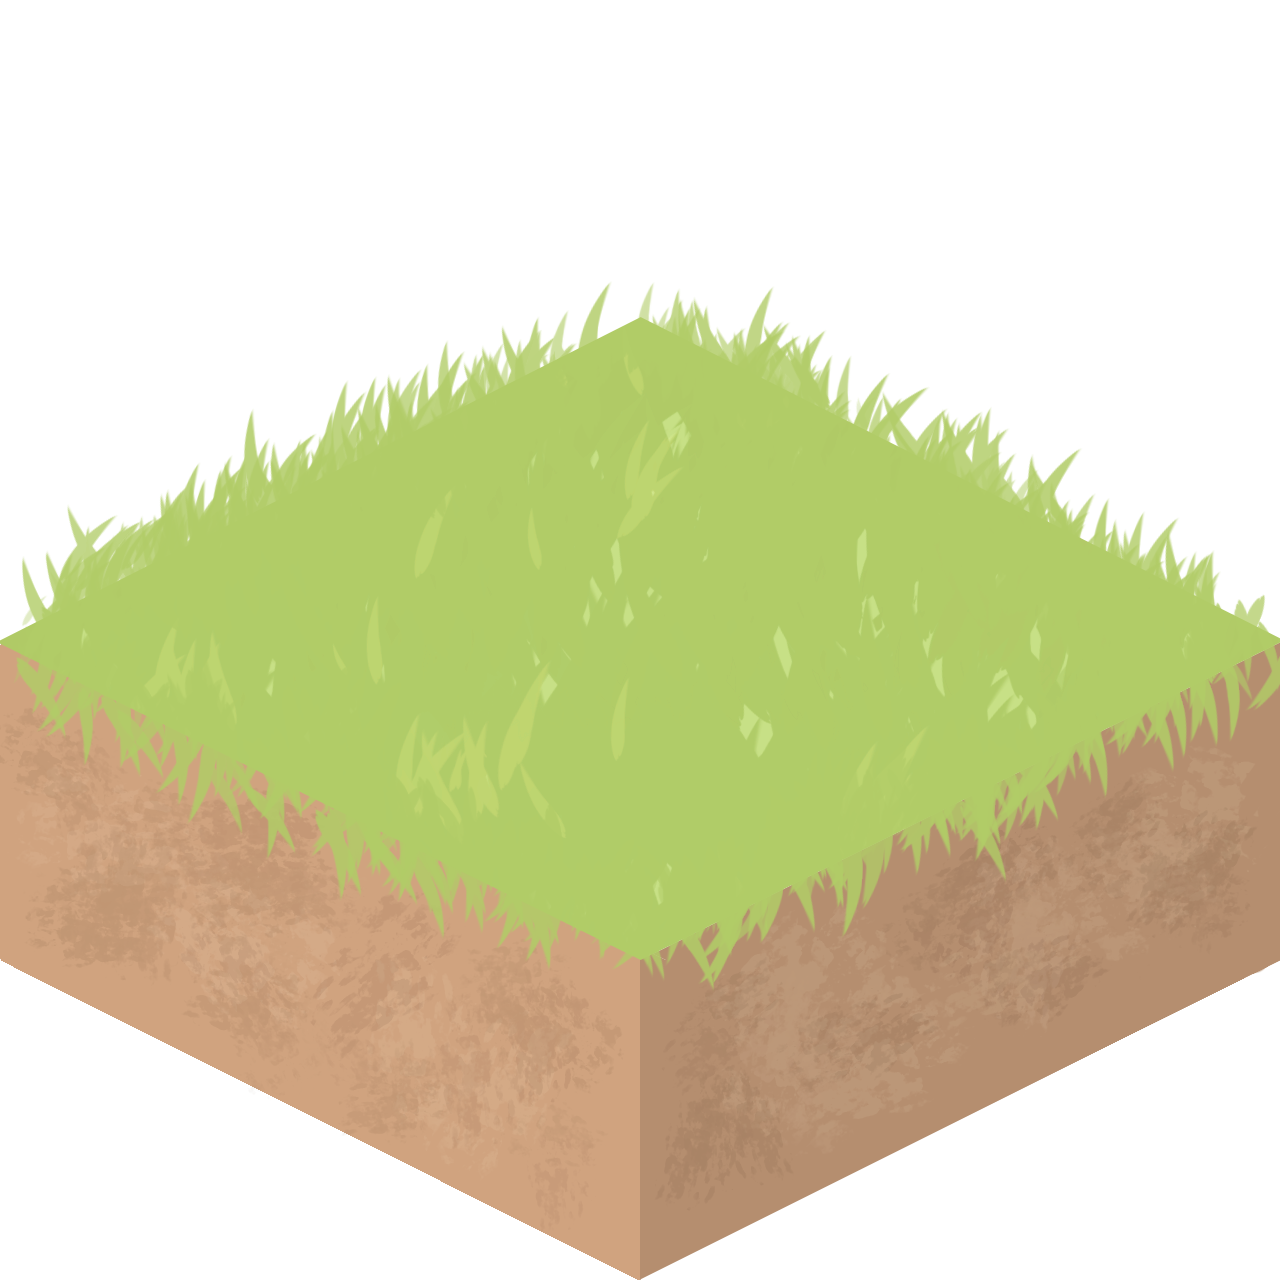
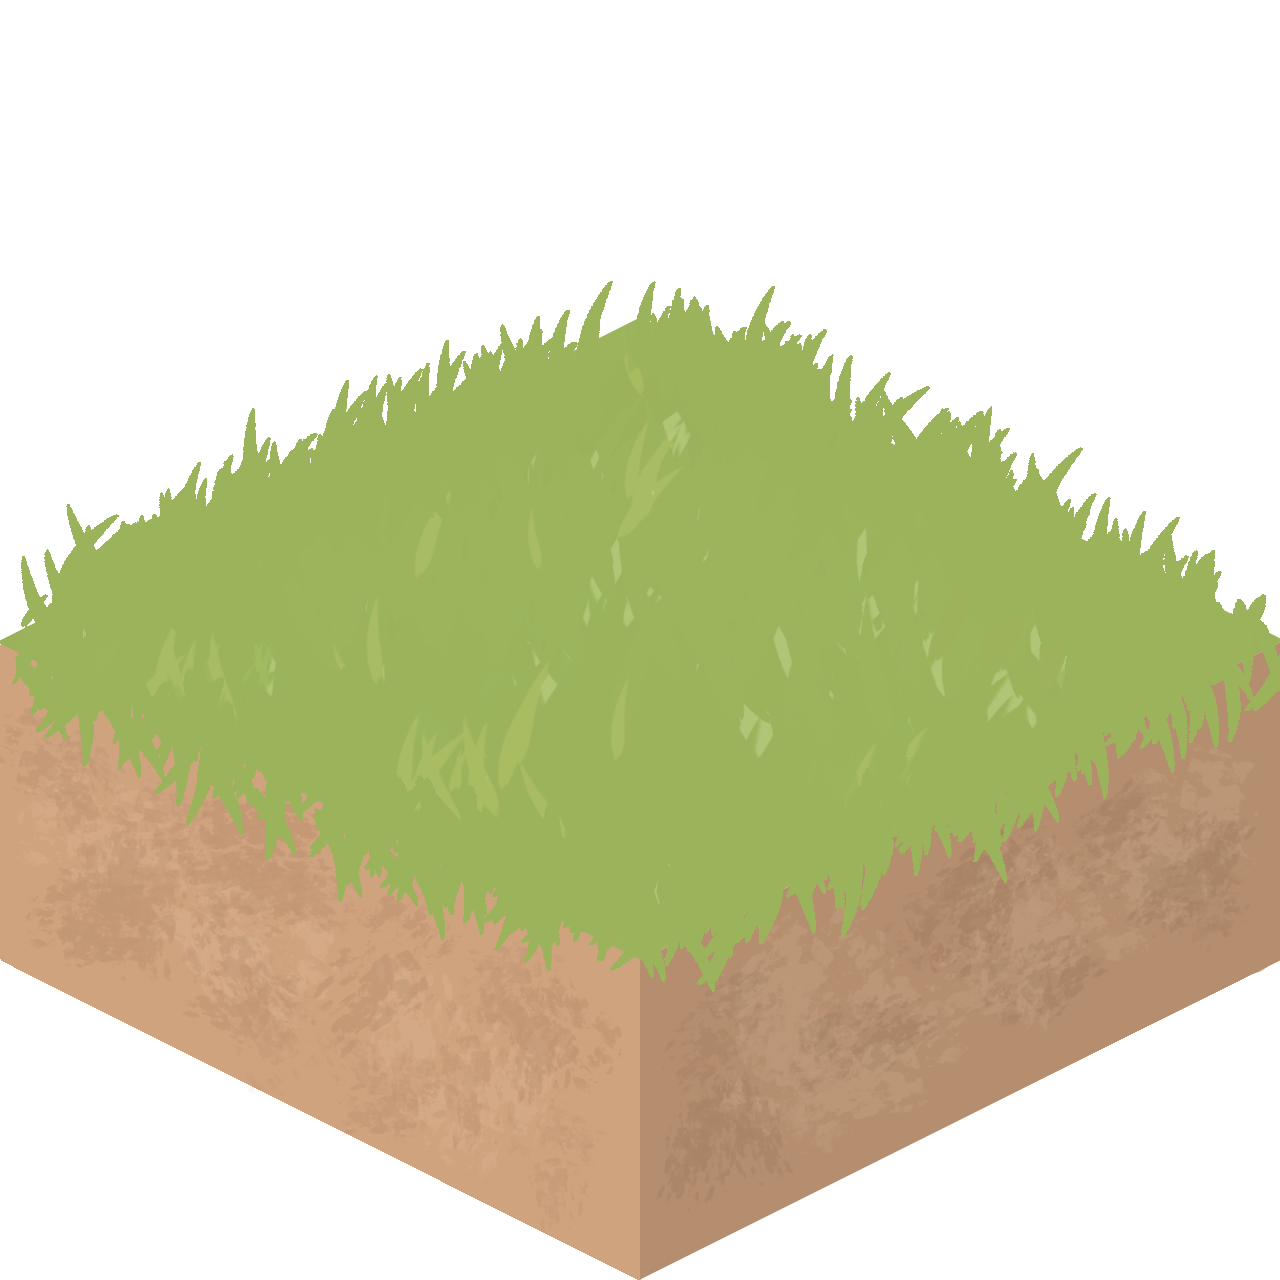
variety of grass

diff --git a/src/render.rs b/src/render.rs
@@ -2,12 +2,12 @@ use crate::level::*;
 use crate::GameState;
 use bevy::math::Vec2;
 use bevy::prelude::*;
-use bevy::render::texture::DEFAULT_IMAGE_HANDLE;
-use bevy::sprite::{Anchor, MaterialMesh2dBundle, Mesh2dHandle};
+use bevy::sprite::*;
 use std::default::Default;
-use bevy::render::mesh::{Indices, PrimitiveTopology};
+use rand::prelude::*;
 
-pub const CELL_SIZE: f32 = 200.0;
+pub const CELL_SIZE: f32 = 150.0;
+
 pub const GRASS_LAYER: f32 = 0.0;
 pub const CELL_LAYER: f32 = 100.0;
 pub const CROSS_LAYER: f32 = 200.0;
@@ -72,6 +72,8 @@ pub fn create_level_render(
     let (rows, columns) = (puzzle.rows(), puzzle.columns());
     let puzzle_height = rows as f32 * CELL_SIZE;
 
+    let mut rng = StdRng::seed_from_u64(game_state.current_level as u64);
+
     assert_eq!(rows, columns);
     for r in 0..rows {
         for c in 0..columns {
@@ -82,10 +84,12 @@ pub fn create_level_render(
             let ix = (c as f32 + r as f32) * CELL_SIZE * 0.5;
             let iy = (c as f32 - r as f32) * CELL_SIZE * 0.25;
 
+            let id: u32 = rng.gen();
+            let id = id % 3 + 1;
             let grass_texture = if (r + c) % 2 == 0 {
-                server.load("grass_iso_dark_2.png")
+                server.load(format!("grass_iso_dark_{id}.png"))
             } else {
-                server.load("grass_iso_light_2.png")
+                server.load(format!("grass_iso_light_{id}.png"))
             };
             let id = commands
                 .spawn(SpriteBundle {
@@ -299,10 +303,12 @@ pub fn update_placements_render(
                 let ix = (c as f32 + r as f32) * CELL_SIZE * 0.5;
                 let iy = (c as f32 - r as f32) * CELL_SIZE * 0.25;
 
+                let z = ((cols - c + 1) + r) as f32 * 0.1;
+
                 *transform = Transform::from_xyz(
                     ix,
                     iy,
-                    ((cols - c + 1) + r) as f32 * 1.0 + 100.0,
+                    z + CELL_LAYER,
                 );
             } else {
                 *visibility = Visibility::Hidden;
